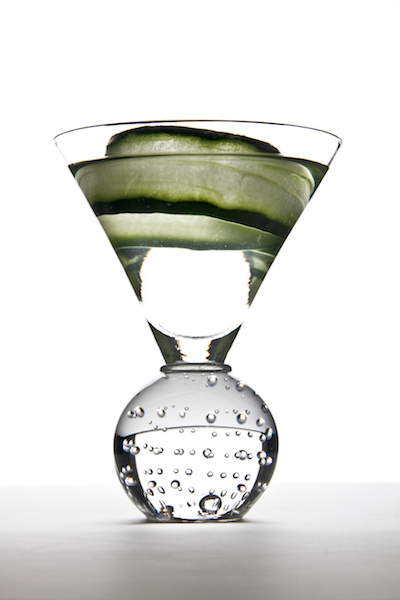
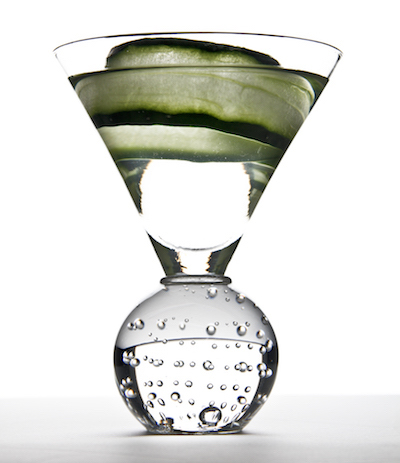
updated Photography

diff --git a/index.html b/index.html
@@ -205,10 +205,10 @@
         </div>
 
         <div class="col-md-3">
-          <a class="portfolio-item" style="background-image: url(img/SAM7D-18597.jpg);" href="">
+          <a class="portfolio-item" style="background-image: url(img/SAM7D-24641.jpg);" href="">
             <div class="details">
-              <h4>Cocktails</h4>
-              <span>Cucumber Garnish</span>
+              <h4>Springtime</h4>
+              <span>Swanns</span>
             </div>
           </a>
         </div>
